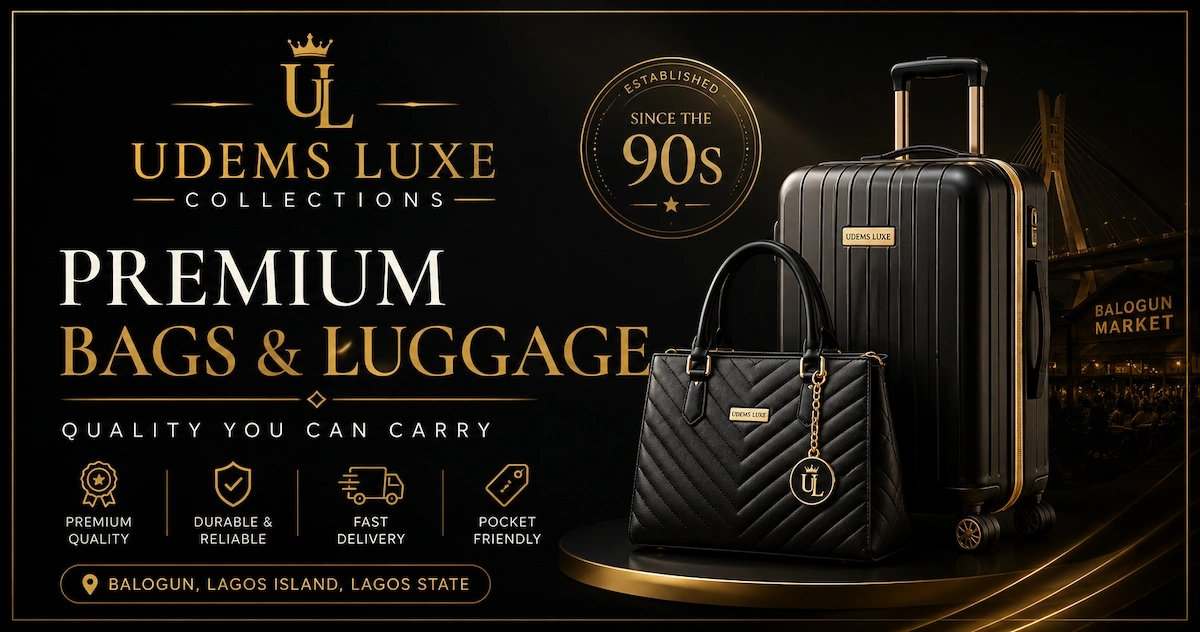
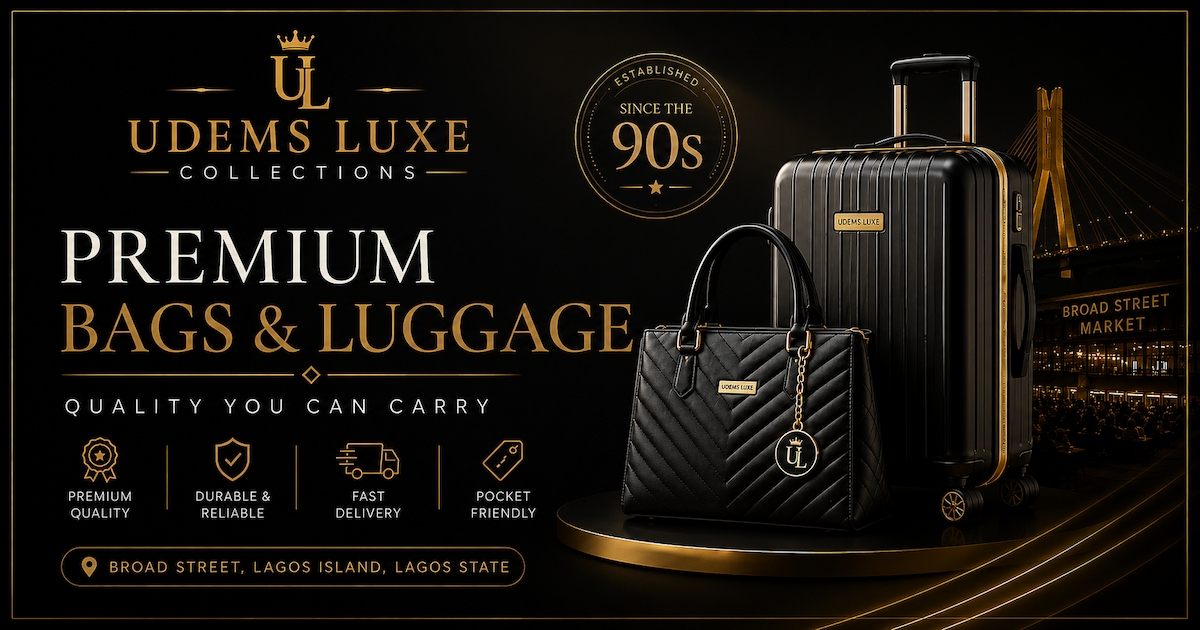
Change the og image

diff --git a/about.html b/about.html
@@ -32,7 +32,7 @@
     <meta property="og:type" content="website" />
     <meta
       property="og:image"
-      content="https://www.udemsluxecollections.com/images/og-image.png"
+      content="https://www.udemsluxecollections.com/images/og-image.jpg"
     />
     <meta property="og:image:width" content="1200" />
     <meta property="og:image:height" content="630" />

diff --git a/contact.html b/contact.html
@@ -38,7 +38,7 @@
     <meta property="og:type" content="website" />
     <meta
       property="og:image"
-      content="https://www.udemsluxecollections.com/images/og-image.png"
+      content="https://www.udemsluxecollections.com/images/og-image.jpg"
     />
     <meta property="og:image:width" content="1200" />
     <meta property="og:image:height" content="630" />

diff --git a/index.html b/index.html
@@ -37,7 +37,7 @@
     <meta property="og:type" content="website" />
     <meta
       property="og:image"
-      content="https://www.udemsluxecollections.com/images/og-image.png"
+      content="https://www.udemsluxecollections.com/images/og-image.jpg"
     />
     <meta property="og:image:width" content="1200" />
     <meta property="og:image:height" content="630" />

diff --git a/products.html b/products.html
@@ -32,7 +32,7 @@
     <meta property="og:type" content="website" />
     <meta
       property="og:image"
-      content="https://www.udemsluxecollections.com/images/og-image.png"
+      content="https://www.udemsluxecollections.com/images/og-image.jpg"
     />
     <meta property="og:image:width" content="1200" />
     <meta property="og:image:height" content="630" />